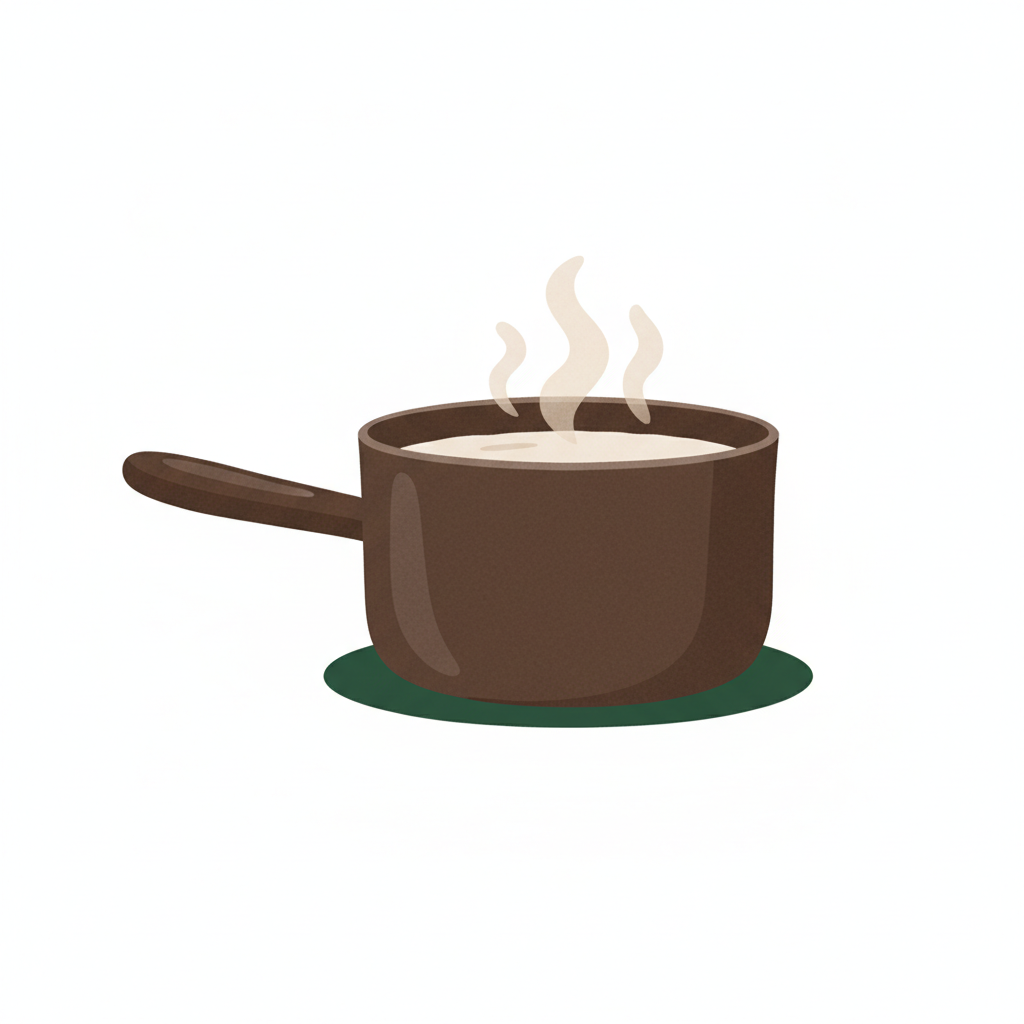
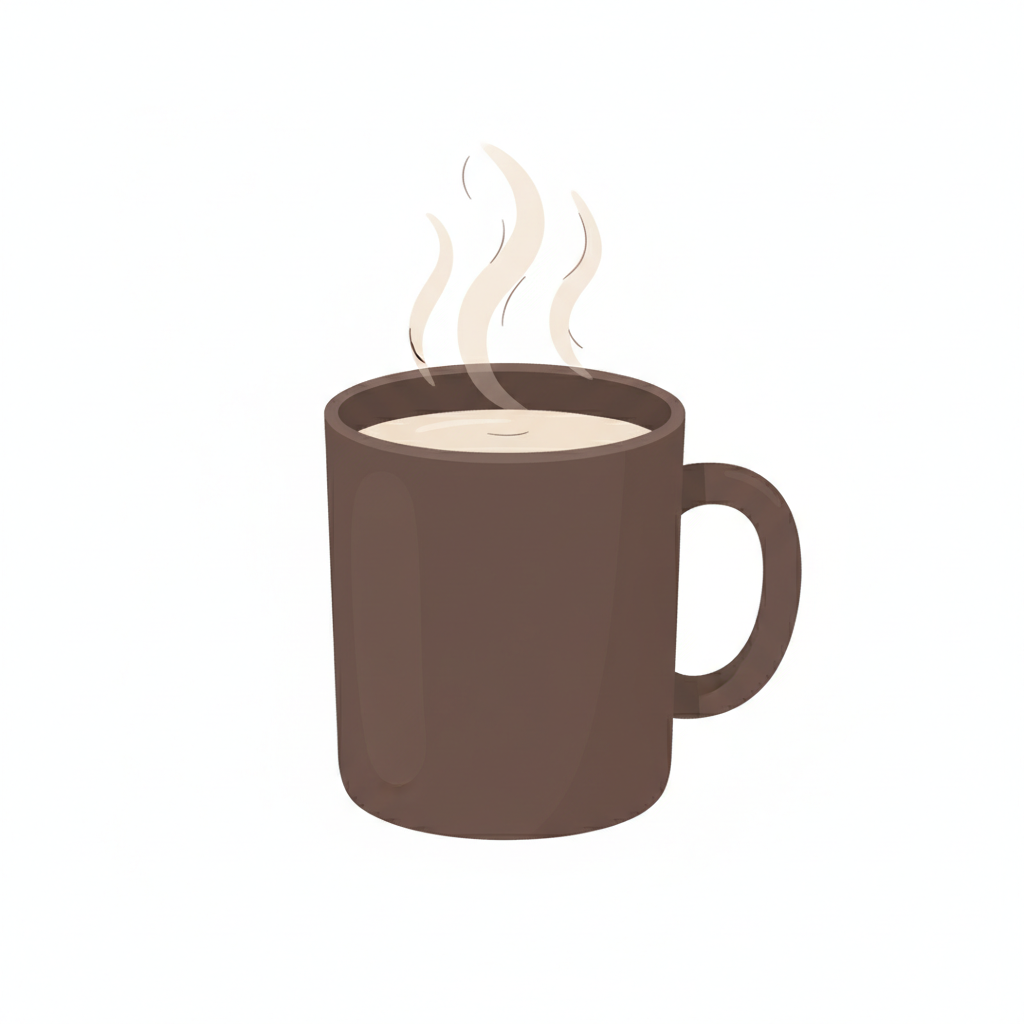
added result image segmentation

Changed region(s): [[0.0938, 0.125, 0.8125, 0.8438], [0.5312, 0.5938, 0.5625, 0.625]]

diff --git a/backend/server.js b/backend/server.js
@@ -11,7 +11,7 @@ const imageAgentPath = path.join(__dirname, "my_agent", "image_agent.py");
 const separationAgentPath = path.join(__dirname, "my_agent", "separation_agent.py")
 const app = express();
 const port = 8080;
-const PYTHON = "C:\\Users\\devil\\AppData\\Local\\Programs\\Python\\Python314\\python.exe";
+const PYTHON = process.env.PYTHON_PATH;
 const { GoogleGenAI } = require("@google/genai");
 const crypto = require("crypto");
 
@@ -19,7 +19,7 @@ const FRONTEND_IMAGE_DIR = path.join(__dirname, "../frontend/public/images");
 app.use("/images", express.static(FRONTEND_IMAGE_DIR));
 
 const COMFY_URL = "http://127.0.0.1:8188"
-const COMFY_OUTPUT_DIR = path.join("D:/ComfyUI/output")
+const COMFY_OUTPUT_DIR = process.env.COMFY_OUTPUT_DIR;
 
 const ai = new GoogleGenAI({
     apiKey: process.env.GEMINI_API_KEY
@@ -240,6 +240,27 @@ const saveImage = (result, name, index, hash) => {
     return `/images/${fileName}`; 
 };
 
+async function segmentImage(inputPath, outputPath, label) {
+    const baseWorkflow = JSON.parse(fs.readFileSync(WORKFLOW_PATH, "utf8"));
+    const workflow = structuredClone(baseWorkflow);
+
+    workflow["2"].inputs.image = inputPath;
+    workflow["3"].inputs.prompt = `${label} in a container`;
+
+    const promptId = await sendWorkflowToComfy(workflow);
+    const result = await waitForResult(promptId);
+
+    if (!result) throw new Error("No Comfy result for segmentation");
+
+    const imgInfo = extractComfyImage(result);
+    if (!imgInfo) throw new Error("No image in Comfy output");
+
+    const comfyPath = path.join(COMFY_OUTPUT_DIR, imgInfo.subfolder, imgInfo.filename);
+    if (!fs.existsSync(comfyPath)) throw new Error("Comfy file not found");
+
+    fs.copyFileSync(comfyPath, outputPath);
+};
+
 app.post("/generate-result-image", async (req, res) => {
     const { step, previous, index, name } = req.body;
 
@@ -247,10 +268,23 @@ app.post("/generate-result-image", async (req, res) => {
 
     const fileName = `${toFileName(name)}_step_${index}_${hash}.png`;
     const filePath = path.join(FRONTEND_IMAGE_DIR, fileName);
+    const segFileName = `${toFileName(name)}_step_${index}_${hash}_seg.png`;
+    const segFilePath = path.join(FRONTEND_IMAGE_DIR, segFileName);
+
+    if (fs.existsSync(segFilePath)) {
+        console.log("Using cached segmented image:", segFileName);
+        return res.json({ image_path: `/images/${segFileName}` });
+    }
 
     if (fs.existsSync(filePath)) {
-        console.log("Using cached image:", fileName);
-        return res.json({ image_path: `/images/${fileName}` });
+        console.log("Base image exists, segmenting...");
+        try {
+            await segmentImage(filePath, segFilePath, `${name}`);
+            return res.json({ image_path: `/images/${segFileName}` });
+        } catch (err) {
+            console.error(err);
+            return res.status(500).json({ error: "segmentation failed" });
+        }
     }
 
     try {
@@ -261,13 +295,15 @@ app.post("/generate-result-image", async (req, res) => {
         STYLE (must stay identical across steps):
         flat 2D illustration, minimalistic, dark academia palette,
         muted browns, beiges, dark greens, soft shadows,
-        white background, no extra objects
+        white background, no extra objects, no shadows, same container across steps, except for when the step requires another container
 
         COMPOSITION:
-        single centered object only
+        single isolated object centered on pure white background
+        no pouring, no hands, no motion, no splashing
+        show only the final result, not the action
         same framing and scale every time
 
-        If an image is provided, use it as strict style reference.
+        If an image is provided, use it as style reference.
         `;
 
         const parts = [{ text: prompt }];
@@ -318,7 +354,12 @@ app.post("/generate-result-image", async (req, res) => {
         const base64 = imagePart.inlineData.data;
         const imagePath = saveImage({ image: base64 }, name, index, hash);
 
-        res.json({ image_path: imagePath });
+        const fullPath = path.join(FRONTEND_IMAGE_DIR, path.basename(imagePath));
+
+        await segmentImage(fullPath, segFilePath, step);
+
+        res.json({ image_path: `/images/${segFileName}` });
+
     } catch (err) {
         console.error(err);
         res.status(500).json({ error: "generation failed" });

diff --git a/README.md b/README.md
@@ -1,4 +1,4 @@
-### Interactive Recipe Tutorial App
+# Interactive Recipe Tutorial App
 
 An AI-powered cooking assistant that teaches you recipes step-by-step through animated ingredient visualizations, real-time chat, and generated imagery.
 
